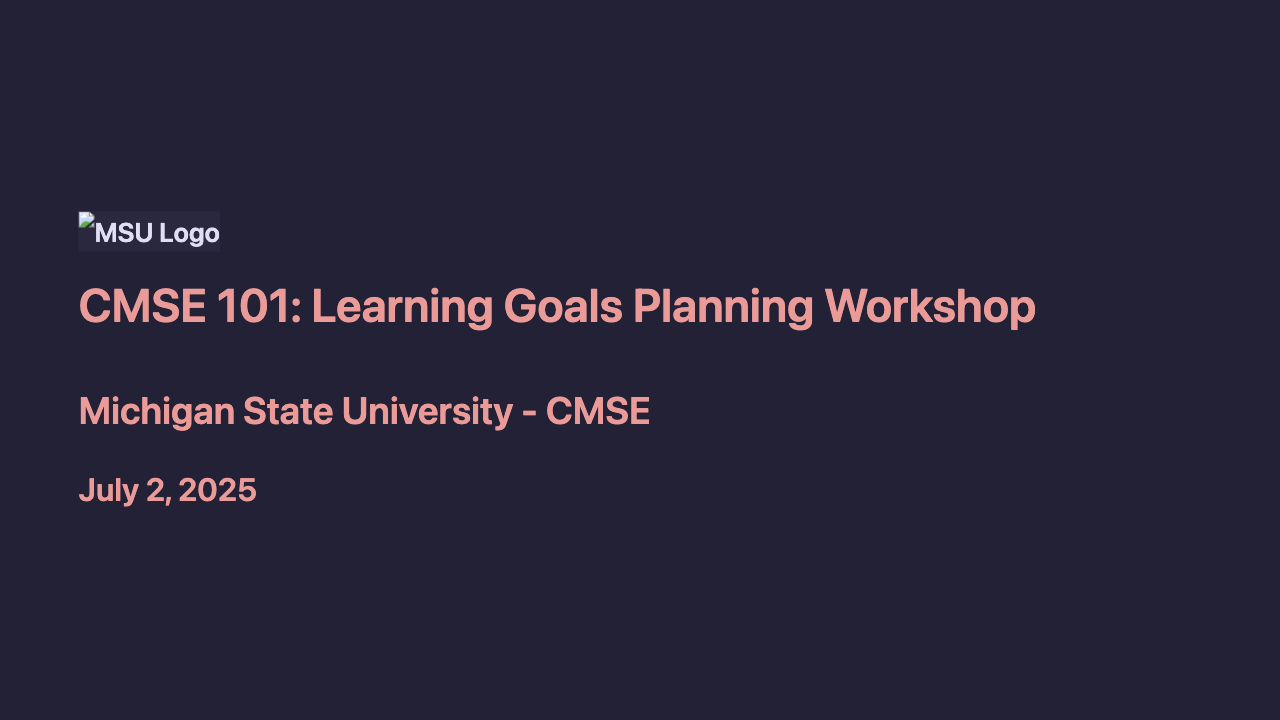
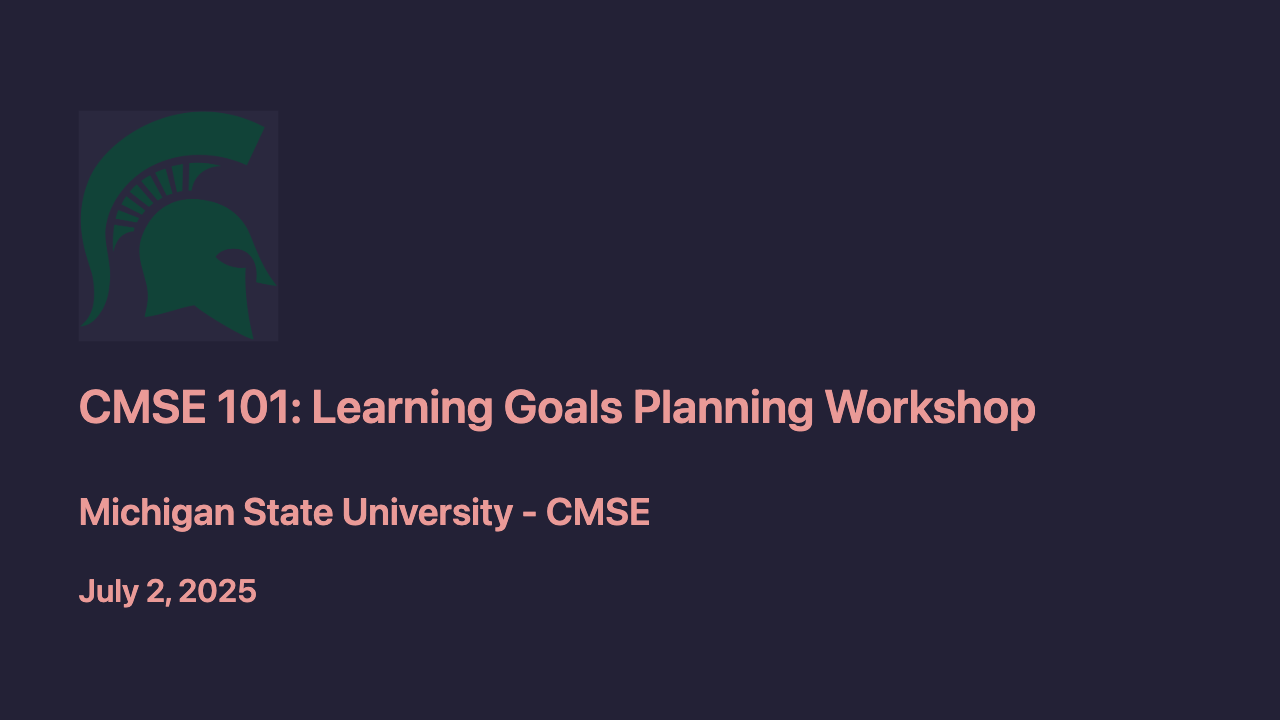
added cmse lg slides

diff --git a/content/cmse-101-learning-goals-workshop/slides-dark.html b/content/cmse-101-learning-goals-workshop/slides-dark.html
@@ -14,13 +14,12 @@ MIT License https://github.com/rainbowflesh/Rose-Pine-For-Marp/blob/master/licen
 
 palette in :root
 */div#\:\$p > svg > foreignObject > :where(section):not([\20 root]){--base: #232136;--surface: #2a273f;--overlay: #393552;--muted: #6e6a86;--subtle: #908caa;--text: #e0def4;--love: #eb6f92;--gold: #f6c177;--rose: #ea9a97;--pine: #3e8fb0;--foam: #9ccfd8;--iris: #c4a7e7;--highlight-low: #2a283e;--highlight-muted: #44415a;--highlight-high: #56526e;font-family:Pier Sans, ui-sans-serif, system-ui, -apple-system, BlinkMacSystemFont, Segoe UI, Roboto, Helvetica Neue, Arial, Noto Sans, sans-serif, "Apple Color Emoji", "Segoe UI Emoji", Segoe UI Symbol, "Noto Color Emoji";font-weight:initial;background-color:var(--base)}div#\:\$p > svg > foreignObject > section :is(h1, marp-h1){color:var(--rose);padding-bottom:2mm;margin-bottom:12mm}div#\:\$p > svg > foreignObject > section :is(h2, marp-h2){color:var(--rose)}div#\:\$p > svg > foreignObject > section :is(h3, marp-h3){color:var(--rose)}div#\:\$p > svg > foreignObject > section :is(h4, marp-h4){color:var(--rose)}div#\:\$p > svg > foreignObject > section :is(h5, marp-h5){color:var(--rose)}div#\:\$p > svg > foreignObject > section :is(h6, marp-h6){color:var(--rose)}div#\:\$p > svg > foreignObject > section a{color:var(--iris)}div#\:\$p > svg > foreignObject > section p{font-size:20pt;font-weight:600;color:var(--text)}div#\:\$p > svg > foreignObject > section code{color:var(--text);background-color:var(--highlight-muted)}div#\:\$p > svg > foreignObject > section text{color:var(--text)}div#\:\$p > svg > foreignObject > section ul{color:var(--subtle)}div#\:\$p > svg > foreignObject > section li{color:var(--subtle)}div#\:\$p > svg > foreignObject > section img{background-color:var(--highlight-low)}div#\:\$p > svg > foreignObject > section strong{color:var(--text);font-weight:inherit;font-weight:800}div#\:\$p > svg > foreignObject > section mjx-container{color:var(--text)}div#\:\$p > svg > foreignObject > section marp-pre{background-color:var(--overlay);border-color:var(--highlight-high)}div#\:\$p > svg > foreignObject > section .hljs-comment{color:var(--muted)}div#\:\$p > svg > foreignObject > section .hljs-attr{color:var(--foam)}div#\:\$p > svg > foreignObject > section .hljs-punctuation{color:var(--subtle)}div#\:\$p > svg > foreignObject > section .hljs-string{color:var(--gold)}div#\:\$p > svg > foreignObject > section .hljs-title{color:var(--foam)}div#\:\$p > svg > foreignObject > section .hljs-keyword{color:var(--pine)}div#\:\$p > svg > foreignObject > section .hljs-variable{color:var(--text)}div#\:\$p > svg > foreignObject > section .hljs-literal{color:var(--rose)}div#\:\$p > svg > foreignObject > section .hljs-type{color:var(--love)}div#\:\$p > svg > foreignObject > section .hljs-number{color:var(--gold)}div#\:\$p > svg > foreignObject > section .hljs-built_in{color:var(--love)}div#\:\$p > svg > foreignObject > section .hljs-params{color:var(--iris)}div#\:\$p > svg > foreignObject > section .hljs-symbol{color:var(--foam)}div#\:\$p > svg > foreignObject > section .hljs-meta{color:var(--subtle)}div#\:\$p > svg > foreignObject > section .twocolumns{display:flex;align-items:flex-start;gap:2em}div#\:\$p > svg > foreignObject > section .twocolumns img{max-width:400px;height:auto}div#\:\$p > svg > foreignObject > section .twocolumns ul{margin:0;padding-left:1.2em}div#\:\$p > svg > foreignObject > section[data-marpit-advanced-background="background"]{columns:initial!important;display:block!important;padding:0!important}div#\:\$p > svg > foreignObject > section[data-marpit-advanced-background="background"]::before, div#\:\$p > svg > foreignObject > section[data-marpit-advanced-background="background"]::after, div#\:\$p > svg > foreignObject > section[data-marpit-advanced-background="content"]::before, div#\:\$p > svg > foreignObject > section[data-marpit-advanced-background="content"]::after{display:none!important}div#\:\$p > svg > foreignObject > section[data-marpit-advanced-background="background"] > div[data-marpit-advanced-background-container]{all:initial;display:flex;flex-direction:row;height:100%;overflow:hidden;width:100%}div#\:\$p > svg > foreignObject > section[data-marpit-advanced-background="background"] > div[data-marpit-advanced-background-container][data-marpit-advanced-background-direction="vertical"]{flex-direction:column}div#\:\$p > svg > foreignObject > section[data-marpit-advanced-background="background"][data-marpit-advanced-background-split] > div[data-marpit-advanced-background-container]{width:var(--marpit-advanced-background-split, 50%)}div#\:\$p > svg > foreignObject > section[data-marpit-advanced-background="background"][data-marpit-advanced-background-split="right"] > div[data-marpit-advanced-background-container]{margin-left:calc(100% - var(--marpit-advanced-background-split, 50%))}div#\:\$p > svg > foreignObject > section[data-marpit-advanced-background="background"] > div[data-marpit-advanced-background-container] > figure{all:initial;background-position:center;background-repeat:no-repeat;background-size:cover;flex:auto;margin:0}div#\:\$p > svg > foreignObject > section[data-marpit-advanced-background="background"] > div[data-marpit-advanced-background-container] > figure > figcaption{position:absolute;border:0;clip:rect(0, 0, 0, 0);height:1px;margin:-1px;overflow:hidden;padding:0;white-space:nowrap;width:1px}div#\:\$p > svg > foreignObject > section[data-marpit-advanced-background="content"], div#\:\$p > svg > foreignObject > section[data-marpit-advanced-background="pseudo"]{background:transparent!important}div#\:\$p > svg > foreignObject > section[data-marpit-advanced-background="pseudo"], div#\:\$p > svg[data-marpit-svg] > foreignObject[data-marpit-advanced-background="pseudo"]{pointer-events:none!important}div#\:\$p > svg > foreignObject > section[data-marpit-advanced-background-split]{width:100%;height:100%}
-</style></head><body><div class="bespoke-marp-osc"><button data-bespoke-marp-osc="prev" tabindex="-1" title="Previous slide">Previous slide</button><span data-bespoke-marp-osc="page"></span><button data-bespoke-marp-osc="next" tabindex="-1" title="Next slide">Next slide</button><button data-bespoke-marp-osc="fullscreen" tabindex="-1" title="Toggle fullscreen (f)">Toggle fullscreen</button><button data-bespoke-marp-osc="presenter" tabindex="-1" title="Open presenter view (p)">Open presenter view</button></div><div id=":$p"><svg data-marpit-svg="" viewBox="0 0 1280 720"><foreignObject width="1280" height="720"><section id="1" data-theme="vqmhr36mx9h9f73o8dxdu18jc18evnkctww7g9umyvn" lang="en-US" style="--theme:vqmhr36mx9h9f73o8dxdu18jc18evnkctww7g9umyvn;">
-<p><img src="https://upload.wikimedia.org/wikipedia/commons/thumb/0/04/Michigan_State_University_Logo.svg/1200px-Michigan_State_University_Logo.svg.png" alt="MSU Logo" /></p>
+</style></head><body><div class="bespoke-marp-osc"><button data-bespoke-marp-osc="prev" tabindex="-1" title="Previous slide">Previous slide</button><span data-bespoke-marp-osc="page"></span><button data-bespoke-marp-osc="next" tabindex="-1" title="Next slide">Next slide</button><button data-bespoke-marp-osc="fullscreen" tabindex="-1" title="Toggle fullscreen (f)">Toggle fullscreen</button><button data-bespoke-marp-osc="presenter" tabindex="-1" title="Open presenter view (p)">Open presenter view</button></div><div id=":$p"><svg data-marpit-svg="" viewBox="0 0 1280 720"><foreignObject width="1280" height="720"><section id="1" data-theme="2opchzetwzlmyj7yw8d2ysjjeofq90p6dske70d6ek2l" lang="en-US" style="--theme:2opchzetwzlmyj7yw8d2ysjjeofq90p6dske70d6ek2l;"><img src="./images/msu.png" alt="MSU Logo" width="200" />
 <h1 id="cmse-101-learning-goals-planning-workshop">CMSE 101: Learning Goals Planning Workshop</h1>
 <h2 id="michigan-state-university---cmse">Michigan State University - CMSE</h2>
 <h3 id="july-2-2025">July 2, 2025</h3>
 </section>
-</foreignObject></svg><svg data-marpit-svg="" viewBox="0 0 1280 720"><foreignObject width="1280" height="720"><section id="2" data-theme="vqmhr36mx9h9f73o8dxdu18jc18evnkctww7g9umyvn" lang="en-US" style="--theme:vqmhr36mx9h9f73o8dxdu18jc18evnkctww7g9umyvn;">
+</foreignObject></svg><svg data-marpit-svg="" viewBox="0 0 1280 720"><foreignObject width="1280" height="720"><section id="2" data-theme="2opchzetwzlmyj7yw8d2ysjjeofq90p6dske70d6ek2l" lang="en-US" style="--theme:2opchzetwzlmyj7yw8d2ysjjeofq90p6dske70d6ek2l;">
 <h1 id="what-is-cmse-101-preliminary"><strong>What is CMSE 101? (Preliminary)</strong></h1>
 <h2 id="%F0%9F%8E%AF-working-course-vision"><img class="emoji" draggable="false" alt="🎯" src="https://cdn.jsdelivr.net/gh/jdecked/twemoji@16.0.1/assets/svg/1f3af.svg" data-marp-twemoji=""/> <strong>Working Course Vision</strong></h2>
 <ul>
@@ -31,7 +30,7 @@ palette in :root
 </ul>
 <p><strong>But what should this actually look like? That's what we're here to figure out!</strong></p>
 </section>
-</foreignObject></svg><svg data-marpit-svg="" viewBox="0 0 1280 720"><foreignObject width="1280" height="720"><section id="3" data-theme="vqmhr36mx9h9f73o8dxdu18jc18evnkctww7g9umyvn" lang="en-US" style="--theme:vqmhr36mx9h9f73o8dxdu18jc18evnkctww7g9umyvn;">
+</foreignObject></svg><svg data-marpit-svg="" viewBox="0 0 1280 720"><foreignObject width="1280" height="720"><section id="3" data-theme="2opchzetwzlmyj7yw8d2ysjjeofq90p6dske70d6ek2l" lang="en-US" style="--theme:2opchzetwzlmyj7yw8d2ysjjeofq90p6dske70d6ek2l;">
 <h1 id="workshop-goals"><strong>Workshop Goals</strong></h1>
 <h2 id="%F0%9F%A7%A0-todays-work"><img class="emoji" draggable="false" alt="🧠" src="https://cdn.jsdelivr.net/gh/jdecked/twemoji@16.0.1/assets/svg/1f9e0.svg" data-marp-twemoji=""/> <strong>Today's Work</strong></h2>
 <ul>
@@ -42,7 +41,7 @@ palette in :root
 <li><strong>Leave with concrete next steps</strong></li>
 </ul>
 </section>
-</foreignObject></svg><svg data-marpit-svg="" viewBox="0 0 1280 720"><foreignObject width="1280" height="720"><section id="4" data-theme="vqmhr36mx9h9f73o8dxdu18jc18evnkctww7g9umyvn" lang="en-US" style="--theme:vqmhr36mx9h9f73o8dxdu18jc18evnkctww7g9umyvn;">
+</foreignObject></svg><svg data-marpit-svg="" viewBox="0 0 1280 720"><foreignObject width="1280" height="720"><section id="4" data-theme="2opchzetwzlmyj7yw8d2ysjjeofq90p6dske70d6ek2l" lang="en-US" style="--theme:2opchzetwzlmyj7yw8d2ysjjeofq90p6dske70d6ek2l;">
 <h1 id="starting-point-preliminary-ideas"><strong>Starting Point: Preliminary Ideas</strong></h1>
 <h2 id="%F0%9F%A4%94-some-initial-thoughts-to-be-tested"><img class="emoji" draggable="false" alt="🤔" src="https://cdn.jsdelivr.net/gh/jdecked/twemoji@16.0.1/assets/svg/1f914.svg" data-marp-twemoji=""/> <strong>Some Initial Thoughts (To Be Tested!)</strong></h2>
 <ul>
@@ -54,7 +53,7 @@ palette in :root
 </ul>
 <p><strong>But are these the right priorities? What's missing?</strong></p>
 </section>
-</foreignObject></svg><svg data-marpit-svg="" viewBox="0 0 1280 720"><foreignObject width="1280" height="720"><section id="5" data-theme="vqmhr36mx9h9f73o8dxdu18jc18evnkctww7g9umyvn" lang="en-US" style="--theme:vqmhr36mx9h9f73o8dxdu18jc18evnkctww7g9umyvn;">
+</foreignObject></svg><svg data-marpit-svg="" viewBox="0 0 1280 720"><foreignObject width="1280" height="720"><section id="5" data-theme="2opchzetwzlmyj7yw8d2ysjjeofq90p6dske70d6ek2l" lang="en-US" style="--theme:2opchzetwzlmyj7yw8d2ysjjeofq90p6dske70d6ek2l;">
 <h1 id="learning-goals-development-process"><strong>Learning Goals Development Process</strong></h1>
 <h2 id="%F0%9F%94%84-our-workshop-flow"><img class="emoji" draggable="false" alt="🔄" src="https://cdn.jsdelivr.net/gh/jdecked/twemoji@16.0.1/assets/svg/1f504.svg" data-marp-twemoji=""/> <strong>Our Workshop Flow</strong></h2>
 <ol>
@@ -64,7 +63,7 @@ palette in :root
 <li><strong>Whole group discussion</strong> (15 min) - Refine and organize</li>
 </ol>
 </section>
-</foreignObject></svg><svg data-marpit-svg="" viewBox="0 0 1280 720"><foreignObject width="1280" height="720"><section id="6" data-theme="vqmhr36mx9h9f73o8dxdu18jc18evnkctww7g9umyvn" lang="en-US" style="--theme:vqmhr36mx9h9f73o8dxdu18jc18evnkctww7g9umyvn;">
+</foreignObject></svg><svg data-marpit-svg="" viewBox="0 0 1280 720"><foreignObject width="1280" height="720"><section id="6" data-theme="2opchzetwzlmyj7yw8d2ysjjeofq90p6dske70d6ek2l" lang="en-US" style="--theme:2opchzetwzlmyj7yw8d2ysjjeofq90p6dske70d6ek2l;">
 <h1 id="activity-1-individual-reflection"><strong>Activity 1: Individual Reflection</strong></h1>
 <h2 id="%F0%9F%A4%94-think-about-this-scenario"><img class="emoji" draggable="false" alt="🤔" src="https://cdn.jsdelivr.net/gh/jdecked/twemoji@16.0.1/assets/svg/1f914.svg" data-marp-twemoji=""/> <strong>Think About This Scenario</strong></h2>
 <p><em>A business student takes CMSE 101. Three years later, they're implementing AI chatbots at work.</em></p>
@@ -77,7 +76,7 @@ palette in :root
 </ul>
 <p><strong>Write 3-5 learning goals</strong> (5 minutes, individual work)</p>
 </section>
-</foreignObject></svg><svg data-marpit-svg="" viewBox="0 0 1280 720"><foreignObject width="1280" height="720"><section id="7" data-theme="vqmhr36mx9h9f73o8dxdu18jc18evnkctww7g9umyvn" lang="en-US" style="--theme:vqmhr36mx9h9f73o8dxdu18jc18evnkctww7g9umyvn;">
+</foreignObject></svg><svg data-marpit-svg="" viewBox="0 0 1280 720"><foreignObject width="1280" height="720"><section id="7" data-theme="2opchzetwzlmyj7yw8d2ysjjeofq90p6dske70d6ek2l" lang="en-US" style="--theme:2opchzetwzlmyj7yw8d2ysjjeofq90p6dske70d6ek2l;">
 <h1 id="thought-starters"><strong>Thought Starters</strong></h1>
 <h2 id="%F0%9F%92%AD-some-questions-to-consider"><img class="emoji" draggable="false" alt="💭" src="https://cdn.jsdelivr.net/gh/jdecked/twemoji@16.0.1/assets/svg/1f4ad.svg" data-marp-twemoji=""/> <strong>Some Questions to Consider</strong></h2>
 <ul>
@@ -89,7 +88,7 @@ palette in :root
 </ul>
 <p><strong>Use these to spark ideas, but don't feel constrained by them!</strong></p>
 </section>
-</foreignObject></svg><svg data-marpit-svg="" viewBox="0 0 1280 720"><foreignObject width="1280" height="720"><section id="8" data-theme="vqmhr36mx9h9f73o8dxdu18jc18evnkctww7g9umyvn" lang="en-US" style="--theme:vqmhr36mx9h9f73o8dxdu18jc18evnkctww7g9umyvn;">
+</foreignObject></svg><svg data-marpit-svg="" viewBox="0 0 1280 720"><foreignObject width="1280" height="720"><section id="8" data-theme="2opchzetwzlmyj7yw8d2ysjjeofq90p6dske70d6ek2l" lang="en-US" style="--theme:2opchzetwzlmyj7yw8d2ysjjeofq90p6dske70d6ek2l;">
 <h1 id="activity-2-small-group-brainstorming"><strong>Activity 2: Small Group Brainstorming</strong></h1>
 <h2 id="%F0%9F%A7%A0-expand-the-vision-15-minutes"><img class="emoji" draggable="false" alt="🧠" src="https://cdn.jsdelivr.net/gh/jdecked/twemoji@16.0.1/assets/svg/1f9e0.svg" data-marp-twemoji=""/> <strong>Expand the Vision</strong> (15 minutes)</h2>
 <p><strong>In groups of 3-4:</strong></p>
@@ -106,7 +105,7 @@ palette in :root
 <li><strong>Write each potential learning goal</strong> on a sticky note</li>
 </ol>
 </section>
-</foreignObject></svg><svg data-marpit-svg="" viewBox="0 0 1280 720"><foreignObject width="1280" height="720"><section id="9" data-theme="vqmhr36mx9h9f73o8dxdu18jc18evnkctww7g9umyvn" lang="en-US" style="--theme:vqmhr36mx9h9f73o8dxdu18jc18evnkctww7g9umyvn;">
+</foreignObject></svg><svg data-marpit-svg="" viewBox="0 0 1280 720"><foreignObject width="1280" height="720"><section id="9" data-theme="2opchzetwzlmyj7yw8d2ysjjeofq90p6dske70d6ek2l" lang="en-US" style="--theme:2opchzetwzlmyj7yw8d2ysjjeofq90p6dske70d6ek2l;">
 <h1 id="activity-3-gallery-walk--prioritization"><strong>Activity 3: Gallery Walk &amp; Prioritization</strong></h1>
 <h2 id="%F0%9F%93%9D-organize-our-thinking-10-minutes"><img class="emoji" draggable="false" alt="📝" src="https://cdn.jsdelivr.net/gh/jdecked/twemoji@16.0.1/assets/svg/1f4dd.svg" data-marp-twemoji=""/> <strong>Organize Our Thinking</strong> (10 minutes)</h2>
 <ol>
@@ -127,7 +126,7 @@ palette in :root
 </li>
 </ol>
 </section>
-</foreignObject></svg><svg data-marpit-svg="" viewBox="0 0 1280 720"><foreignObject width="1280" height="720"><section id="10" data-theme="vqmhr36mx9h9f73o8dxdu18jc18evnkctww7g9umyvn" lang="en-US" style="--theme:vqmhr36mx9h9f73o8dxdu18jc18evnkctww7g9umyvn;">
+</foreignObject></svg><svg data-marpit-svg="" viewBox="0 0 1280 720"><foreignObject width="1280" height="720"><section id="10" data-theme="2opchzetwzlmyj7yw8d2ysjjeofq90p6dske70d6ek2l" lang="en-US" style="--theme:2opchzetwzlmyj7yw8d2ysjjeofq90p6dske70d6ek2l;">
 <h1 id="activity-4-refining--reality-check"><strong>Activity 4: Refining &amp; Reality Check</strong></h1>
 <h2 id="%F0%9F%8E%AF-making-it-work-15-minutes"><img class="emoji" draggable="false" alt="🎯" src="https://cdn.jsdelivr.net/gh/jdecked/twemoji@16.0.1/assets/svg/1f3af.svg" data-marp-twemoji=""/> <strong>Making It Work</strong> (15 minutes)</h2>
 <p><strong>Looking at our top-voted goals:</strong></p>
@@ -144,7 +143,7 @@ palette in :root
 <li>Suggest concrete activities that could support each goal</li>
 </ul>
 </section>
-</foreignObject></svg><svg data-marpit-svg="" viewBox="0 0 1280 720"><foreignObject width="1280" height="720"><section id="11" data-theme="vqmhr36mx9h9f73o8dxdu18jc18evnkctww7g9umyvn" lang="en-US" style="--theme:vqmhr36mx9h9f73o8dxdu18jc18evnkctww7g9umyvn;">
+</foreignObject></svg><svg data-marpit-svg="" viewBox="0 0 1280 720"><foreignObject width="1280" height="720"><section id="11" data-theme="2opchzetwzlmyj7yw8d2ysjjeofq90p6dske70d6ek2l" lang="en-US" style="--theme:2opchzetwzlmyj7yw8d2ysjjeofq90p6dske70d6ek2l;">
 <h1 id="course-structure-planning"><strong>Course Structure Planning</strong></h1>
 <h2 id="%F0%9F%93%85-how-should-we-organize-the-semester"><img class="emoji" draggable="false" alt="📅" src="https://cdn.jsdelivr.net/gh/jdecked/twemoji@16.0.1/assets/svg/1f4c5.svg" data-marp-twemoji=""/> <strong>How Should We Organize the Semester?</strong></h2>
 <p><strong>With our learning goals in mind:</strong></p>
@@ -155,7 +154,7 @@ palette in :root
 <li><strong>How do we reinforce</strong> key concepts throughout?</li>
 </ul>
 </section>
-</foreignObject></svg><svg data-marpit-svg="" viewBox="0 0 1280 720"><foreignObject width="1280" height="720"><section id="12" data-theme="vqmhr36mx9h9f73o8dxdu18jc18evnkctww7g9umyvn" lang="en-US" style="--theme:vqmhr36mx9h9f73o8dxdu18jc18evnkctww7g9umyvn;">
+</foreignObject></svg><svg data-marpit-svg="" viewBox="0 0 1280 720"><foreignObject width="1280" height="720"><section id="12" data-theme="2opchzetwzlmyj7yw8d2ysjjeofq90p6dske70d6ek2l" lang="en-US" style="--theme:2opchzetwzlmyj7yw8d2ysjjeofq90p6dske70d6ek2l;">
 <h1 id="module-design-brainstorm"><strong>Module Design Brainstorm</strong></h1>
 <h2 id="%F0%9F%A7%A9-potential-module-structure"><img class="emoji" draggable="false" alt="🧩" src="https://cdn.jsdelivr.net/gh/jdecked/twemoji@16.0.1/assets/svg/1f9e9.svg" data-marp-twemoji=""/> <strong>Potential Module Structure</strong></h2>
 <p><strong>Each 2-3 week module could include:</strong></p>
@@ -168,7 +167,7 @@ palette in :root
 </ul>
 <p><strong>What modules would serve our learning goals?</strong></p>
 </section>
-</foreignObject></svg><svg data-marpit-svg="" viewBox="0 0 1280 720"><foreignObject width="1280" height="720"><section id="13" data-theme="vqmhr36mx9h9f73o8dxdu18jc18evnkctww7g9umyvn" lang="en-US" style="--theme:vqmhr36mx9h9f73o8dxdu18jc18evnkctww7g9umyvn;">
+</foreignObject></svg><svg data-marpit-svg="" viewBox="0 0 1280 720"><foreignObject width="1280" height="720"><section id="13" data-theme="2opchzetwzlmyj7yw8d2ysjjeofq90p6dske70d6ek2l" lang="en-US" style="--theme:2opchzetwzlmyj7yw8d2ysjjeofq90p6dske70d6ek2l;">
 <h1 id="activity-5-module-brainstorming"><strong>Activity 5: Module Brainstorming</strong></h1>
 <h2 id="%F0%9F%93%8B-design-the-semester-20-minutes"><img class="emoji" draggable="false" alt="📋" src="https://cdn.jsdelivr.net/gh/jdecked/twemoji@16.0.1/assets/svg/1f4cb.svg" data-marp-twemoji=""/> <strong>Design the Semester</strong> (20 minutes)</h2>
 <p><strong>In small groups, each take one potential module:</strong></p>
@@ -181,7 +180,7 @@ palette in :root
 </ol>
 <p><strong>Potential modules: Social Media, Search, Recommendations, Generative AI, Healthcare AI, etc.</strong></p>
 </section>
-</foreignObject></svg><svg data-marpit-svg="" viewBox="0 0 1280 720"><foreignObject width="1280" height="720"><section id="14" data-theme="vqmhr36mx9h9f73o8dxdu18jc18evnkctww7g9umyvn" lang="en-US" style="--theme:vqmhr36mx9h9f73o8dxdu18jc18evnkctww7g9umyvn;">
+</foreignObject></svg><svg data-marpit-svg="" viewBox="0 0 1280 720"><foreignObject width="1280" height="720"><section id="14" data-theme="2opchzetwzlmyj7yw8d2ysjjeofq90p6dske70d6ek2l" lang="en-US" style="--theme:2opchzetwzlmyj7yw8d2ysjjeofq90p6dske70d6ek2l;">
 <h1 id="module-sharing--sequencing"><strong>Module Sharing &amp; Sequencing</strong></h1>
 <h2 id="%F0%9F%94%97-putting-it-together"><img class="emoji" draggable="false" alt="🔗" src="https://cdn.jsdelivr.net/gh/jdecked/twemoji@16.0.1/assets/svg/1f517.svg" data-marp-twemoji=""/> <strong>Putting It Together</strong></h2>
 <p><strong>Each group presents their module (3 min each):</strong></p>
@@ -198,7 +197,7 @@ palette in :root
 <li><strong>Consider the semester arc</strong></li>
 </ul>
 </section>
-</foreignObject></svg><svg data-marpit-svg="" viewBox="0 0 1280 720"><foreignObject width="1280" height="720"><section id="15" data-theme="vqmhr36mx9h9f73o8dxdu18jc18evnkctww7g9umyvn" lang="en-US" style="--theme:vqmhr36mx9h9f73o8dxdu18jc18evnkctww7g9umyvn;">
+</foreignObject></svg><svg data-marpit-svg="" viewBox="0 0 1280 720"><foreignObject width="1280" height="720"><section id="15" data-theme="2opchzetwzlmyj7yw8d2ysjjeofq90p6dske70d6ek2l" lang="en-US" style="--theme:2opchzetwzlmyj7yw8d2ysjjeofq90p6dske70d6ek2l;">
 <h1 id="next-steps-course-development"><strong>Next Steps: Course Development</strong></h1>
 <h2 id="%F0%9F%9A%80-what-we-accomplished-today"><img class="emoji" draggable="false" alt="🚀" src="https://cdn.jsdelivr.net/gh/jdecked/twemoji@16.0.1/assets/svg/1f680.svg" data-marp-twemoji=""/> <strong>What We Accomplished Today</strong></h2>
 <ul>
@@ -214,7 +213,7 @@ palette in :root
 <li><strong>Plan follow-up meetings</strong> for instruction and assessment</li>
 </ul>
 </section>
-</foreignObject></svg><svg data-marpit-svg="" viewBox="0 0 1280 720"><foreignObject width="1280" height="720"><section id="16" data-theme="vqmhr36mx9h9f73o8dxdu18jc18evnkctww7g9umyvn" lang="en-US" style="--theme:vqmhr36mx9h9f73o8dxdu18jc18evnkctww7g9umyvn;">
+</foreignObject></svg><svg data-marpit-svg="" viewBox="0 0 1280 720"><foreignObject width="1280" height="720"><section id="16" data-theme="2opchzetwzlmyj7yw8d2ysjjeofq90p6dske70d6ek2l" lang="en-US" style="--theme:2opchzetwzlmyj7yw8d2ysjjeofq90p6dske70d6ek2l;">
 <h1 id="take-action-before-next-meeting"><strong>Take Action: Before Next Meeting</strong></h1>
 <h2 id="%F0%9F%93%9D-individual-tasks"><img class="emoji" draggable="false" alt="📝" src="https://cdn.jsdelivr.net/gh/jdecked/twemoji@16.0.1/assets/svg/1f4dd.svg" data-marp-twemoji=""/> <strong>Individual Tasks</strong></h2>
 <ol>

diff --git a/content/cmse-101-learning-goals-workshop/slides-light.html b/content/cmse-101-learning-goals-workshop/slides-light.html
@@ -14,13 +14,12 @@ MIT License https://github.com/rainbowflesh/Rose-Pine-For-Marp/blob/master/licen
 
 palette in :root
 */div#\:\$p > svg > foreignObject > :where(section):not([\20 root]){--base: #faf4ed;--surface: #fffaf3;--overlay: #f2e9e1;--muted: #9893a5;--subtle: #797593;--text: #575279;--love: #b4637a;--gold: #ea9d34;--rose: #d7827e;--pine: #286983;--foam: #56949f;--iris: #907aa9;--highlight-low: #f4ede8;--highlight-muted: #dfdad9;--highlight-high: #cecacd;font-family:Pier Sans, ui-sans-serif, system-ui, -apple-system, BlinkMacSystemFont, Segoe UI, Roboto, Helvetica Neue, Arial, Noto Sans, sans-serif, "Apple Color Emoji", "Segoe UI Emoji", Segoe UI Symbol, "Noto Color Emoji";font-weight:initial;background-color:var(--base)}div#\:\$p > svg > foreignObject > section :is(h1, marp-h1){color:var(--rose);padding-bottom:2mm;margin-bottom:12mm}div#\:\$p > svg > foreignObject > section :is(h2, marp-h2){color:var(--rose)}div#\:\$p > svg > foreignObject > section :is(h3, marp-h3){color:var(--rose)}div#\:\$p > svg > foreignObject > section :is(h4, marp-h4){color:var(--rose)}div#\:\$p > svg > foreignObject > section :is(h5, marp-h5){color:var(--rose)}div#\:\$p > svg > foreignObject > section :is(h6, marp-h6){color:var(--rose)}div#\:\$p > svg > foreignObject > section a{color:var(--iris)}div#\:\$p > svg > foreignObject > section p{font-size:20pt;font-weight:600;color:var(--text)}div#\:\$p > svg > foreignObject > section code{color:var(--text);background-color:var(--highlight-muted)}div#\:\$p > svg > foreignObject > section text{color:var(--text)}div#\:\$p > svg > foreignObject > section ul{color:var(--subtle)}div#\:\$p > svg > foreignObject > section li{color:var(--subtle)}div#\:\$p > svg > foreignObject > section img{background-color:var(--highlight-low)}div#\:\$p > svg > foreignObject > section strong{color:var(--text);font-weight:inherit;font-weight:800}div#\:\$p > svg > foreignObject > section mjx-container{color:var(--text)}div#\:\$p > svg > foreignObject > section marp-pre{background-color:var(--overlay);border-color:var(--highlight-high)}div#\:\$p > svg > foreignObject > section .hljs-comment{color:var(--muted)}div#\:\$p > svg > foreignObject > section .hljs-attr{color:var(--foam)}div#\:\$p > svg > foreignObject > section .hljs-punctuation{color:var(--subtle)}div#\:\$p > svg > foreignObject > section .hljs-string{color:var(--gold)}div#\:\$p > svg > foreignObject > section .hljs-title{color:var(--foam)}div#\:\$p > svg > foreignObject > section .hljs-keyword{color:var(--pine)}div#\:\$p > svg > foreignObject > section .hljs-variable{color:var(--text)}div#\:\$p > svg > foreignObject > section .hljs-literal{color:var(--rose)}div#\:\$p > svg > foreignObject > section .hljs-type{color:var(--love)}div#\:\$p > svg > foreignObject > section .hljs-number{color:var(--gold)}div#\:\$p > svg > foreignObject > section .hljs-built_in{color:var(--love)}div#\:\$p > svg > foreignObject > section .hljs-params{color:var(--iris)}div#\:\$p > svg > foreignObject > section .hljs-symbol{color:var(--foam)}div#\:\$p > svg > foreignObject > section .hljs-meta{color:var(--subtle)}div#\:\$p > svg > foreignObject > section .twocolumns{display:flex;align-items:flex-start;gap:2em}div#\:\$p > svg > foreignObject > section .twocolumns img{max-width:400px;height:auto}div#\:\$p > svg > foreignObject > section .twocolumns ul{margin:0;padding-left:1.2em}div#\:\$p > svg > foreignObject > section[data-marpit-advanced-background="background"]{columns:initial!important;display:block!important;padding:0!important}div#\:\$p > svg > foreignObject > section[data-marpit-advanced-background="background"]::before, div#\:\$p > svg > foreignObject > section[data-marpit-advanced-background="background"]::after, div#\:\$p > svg > foreignObject > section[data-marpit-advanced-background="content"]::before, div#\:\$p > svg > foreignObject > section[data-marpit-advanced-background="content"]::after{display:none!important}div#\:\$p > svg > foreignObject > section[data-marpit-advanced-background="background"] > div[data-marpit-advanced-background-container]{all:initial;display:flex;flex-direction:row;height:100%;overflow:hidden;width:100%}div#\:\$p > svg > foreignObject > section[data-marpit-advanced-background="background"] > div[data-marpit-advanced-background-container][data-marpit-advanced-background-direction="vertical"]{flex-direction:column}div#\:\$p > svg > foreignObject > section[data-marpit-advanced-background="background"][data-marpit-advanced-background-split] > div[data-marpit-advanced-background-container]{width:var(--marpit-advanced-background-split, 50%)}div#\:\$p > svg > foreignObject > section[data-marpit-advanced-background="background"][data-marpit-advanced-background-split="right"] > div[data-marpit-advanced-background-container]{margin-left:calc(100% - var(--marpit-advanced-background-split, 50%))}div#\:\$p > svg > foreignObject > section[data-marpit-advanced-background="background"] > div[data-marpit-advanced-background-container] > figure{all:initial;background-position:center;background-repeat:no-repeat;background-size:cover;flex:auto;margin:0}div#\:\$p > svg > foreignObject > section[data-marpit-advanced-background="background"] > div[data-marpit-advanced-background-container] > figure > figcaption{position:absolute;border:0;clip:rect(0, 0, 0, 0);height:1px;margin:-1px;overflow:hidden;padding:0;white-space:nowrap;width:1px}div#\:\$p > svg > foreignObject > section[data-marpit-advanced-background="content"], div#\:\$p > svg > foreignObject > section[data-marpit-advanced-background="pseudo"]{background:transparent!important}div#\:\$p > svg > foreignObject > section[data-marpit-advanced-background="pseudo"], div#\:\$p > svg[data-marpit-svg] > foreignObject[data-marpit-advanced-background="pseudo"]{pointer-events:none!important}div#\:\$p > svg > foreignObject > section[data-marpit-advanced-background-split]{width:100%;height:100%}
-</style></head><body><div class="bespoke-marp-osc"><button data-bespoke-marp-osc="prev" tabindex="-1" title="Previous slide">Previous slide</button><span data-bespoke-marp-osc="page"></span><button data-bespoke-marp-osc="next" tabindex="-1" title="Next slide">Next slide</button><button data-bespoke-marp-osc="fullscreen" tabindex="-1" title="Toggle fullscreen (f)">Toggle fullscreen</button><button data-bespoke-marp-osc="presenter" tabindex="-1" title="Open presenter view (p)">Open presenter view</button></div><div id=":$p"><svg data-marpit-svg="" viewBox="0 0 1280 720"><foreignObject width="1280" height="720"><section id="1" data-theme="al5x4250iwsp9pj34mr4gfrn6tjkwaqaavwdhuoc7kr" lang="en-US" style="--theme:al5x4250iwsp9pj34mr4gfrn6tjkwaqaavwdhuoc7kr;">
-<p><img src="https://upload.wikimedia.org/wikipedia/commons/thumb/0/04/Michigan_State_University_Logo.svg/1200px-Michigan_State_University_Logo.svg.png" alt="MSU Logo" /></p>
+</style></head><body><div class="bespoke-marp-osc"><button data-bespoke-marp-osc="prev" tabindex="-1" title="Previous slide">Previous slide</button><span data-bespoke-marp-osc="page"></span><button data-bespoke-marp-osc="next" tabindex="-1" title="Next slide">Next slide</button><button data-bespoke-marp-osc="fullscreen" tabindex="-1" title="Toggle fullscreen (f)">Toggle fullscreen</button><button data-bespoke-marp-osc="presenter" tabindex="-1" title="Open presenter view (p)">Open presenter view</button></div><div id=":$p"><svg data-marpit-svg="" viewBox="0 0 1280 720"><foreignObject width="1280" height="720"><section id="1" data-theme="35j7dcd4n72p2uje7g9wwaksjlox15dbfnakp6wbdmd" lang="en-US" style="--theme:35j7dcd4n72p2uje7g9wwaksjlox15dbfnakp6wbdmd;"><img src="./images/msu.png" alt="MSU Logo" width="200" />
 <h1 id="cmse-101-learning-goals-planning-workshop">CMSE 101: Learning Goals Planning Workshop</h1>
 <h2 id="michigan-state-university---cmse">Michigan State University - CMSE</h2>
 <h3 id="july-2-2025">July 2, 2025</h3>
 </section>
-</foreignObject></svg><svg data-marpit-svg="" viewBox="0 0 1280 720"><foreignObject width="1280" height="720"><section id="2" data-theme="al5x4250iwsp9pj34mr4gfrn6tjkwaqaavwdhuoc7kr" lang="en-US" style="--theme:al5x4250iwsp9pj34mr4gfrn6tjkwaqaavwdhuoc7kr;">
+</foreignObject></svg><svg data-marpit-svg="" viewBox="0 0 1280 720"><foreignObject width="1280" height="720"><section id="2" data-theme="35j7dcd4n72p2uje7g9wwaksjlox15dbfnakp6wbdmd" lang="en-US" style="--theme:35j7dcd4n72p2uje7g9wwaksjlox15dbfnakp6wbdmd;">
 <h1 id="what-is-cmse-101-preliminary"><strong>What is CMSE 101? (Preliminary)</strong></h1>
 <h2 id="%F0%9F%8E%AF-working-course-vision"><img class="emoji" draggable="false" alt="🎯" src="https://cdn.jsdelivr.net/gh/jdecked/twemoji@16.0.1/assets/svg/1f3af.svg" data-marp-twemoji=""/> <strong>Working Course Vision</strong></h2>
 <ul>
@@ -31,7 +30,7 @@ palette in :root
 </ul>
 <p><strong>But what should this actually look like? That's what we're here to figure out!</strong></p>
 </section>
-</foreignObject></svg><svg data-marpit-svg="" viewBox="0 0 1280 720"><foreignObject width="1280" height="720"><section id="3" data-theme="al5x4250iwsp9pj34mr4gfrn6tjkwaqaavwdhuoc7kr" lang="en-US" style="--theme:al5x4250iwsp9pj34mr4gfrn6tjkwaqaavwdhuoc7kr;">
+</foreignObject></svg><svg data-marpit-svg="" viewBox="0 0 1280 720"><foreignObject width="1280" height="720"><section id="3" data-theme="35j7dcd4n72p2uje7g9wwaksjlox15dbfnakp6wbdmd" lang="en-US" style="--theme:35j7dcd4n72p2uje7g9wwaksjlox15dbfnakp6wbdmd;">
 <h1 id="workshop-goals"><strong>Workshop Goals</strong></h1>
 <h2 id="%F0%9F%A7%A0-todays-work"><img class="emoji" draggable="false" alt="🧠" src="https://cdn.jsdelivr.net/gh/jdecked/twemoji@16.0.1/assets/svg/1f9e0.svg" data-marp-twemoji=""/> <strong>Today's Work</strong></h2>
 <ul>
@@ -42,7 +41,7 @@ palette in :root
 <li><strong>Leave with concrete next steps</strong></li>
 </ul>
 </section>
-</foreignObject></svg><svg data-marpit-svg="" viewBox="0 0 1280 720"><foreignObject width="1280" height="720"><section id="4" data-theme="al5x4250iwsp9pj34mr4gfrn6tjkwaqaavwdhuoc7kr" lang="en-US" style="--theme:al5x4250iwsp9pj34mr4gfrn6tjkwaqaavwdhuoc7kr;">
+</foreignObject></svg><svg data-marpit-svg="" viewBox="0 0 1280 720"><foreignObject width="1280" height="720"><section id="4" data-theme="35j7dcd4n72p2uje7g9wwaksjlox15dbfnakp6wbdmd" lang="en-US" style="--theme:35j7dcd4n72p2uje7g9wwaksjlox15dbfnakp6wbdmd;">
 <h1 id="starting-point-preliminary-ideas"><strong>Starting Point: Preliminary Ideas</strong></h1>
 <h2 id="%F0%9F%A4%94-some-initial-thoughts-to-be-tested"><img class="emoji" draggable="false" alt="🤔" src="https://cdn.jsdelivr.net/gh/jdecked/twemoji@16.0.1/assets/svg/1f914.svg" data-marp-twemoji=""/> <strong>Some Initial Thoughts (To Be Tested!)</strong></h2>
 <ul>
@@ -54,7 +53,7 @@ palette in :root
 </ul>
 <p><strong>But are these the right priorities? What's missing?</strong></p>
 </section>
-</foreignObject></svg><svg data-marpit-svg="" viewBox="0 0 1280 720"><foreignObject width="1280" height="720"><section id="5" data-theme="al5x4250iwsp9pj34mr4gfrn6tjkwaqaavwdhuoc7kr" lang="en-US" style="--theme:al5x4250iwsp9pj34mr4gfrn6tjkwaqaavwdhuoc7kr;">
+</foreignObject></svg><svg data-marpit-svg="" viewBox="0 0 1280 720"><foreignObject width="1280" height="720"><section id="5" data-theme="35j7dcd4n72p2uje7g9wwaksjlox15dbfnakp6wbdmd" lang="en-US" style="--theme:35j7dcd4n72p2uje7g9wwaksjlox15dbfnakp6wbdmd;">
 <h1 id="learning-goals-development-process"><strong>Learning Goals Development Process</strong></h1>
 <h2 id="%F0%9F%94%84-our-workshop-flow"><img class="emoji" draggable="false" alt="🔄" src="https://cdn.jsdelivr.net/gh/jdecked/twemoji@16.0.1/assets/svg/1f504.svg" data-marp-twemoji=""/> <strong>Our Workshop Flow</strong></h2>
 <ol>
@@ -64,7 +63,7 @@ palette in :root
 <li><strong>Whole group discussion</strong> (15 min) - Refine and organize</li>
 </ol>
 </section>
-</foreignObject></svg><svg data-marpit-svg="" viewBox="0 0 1280 720"><foreignObject width="1280" height="720"><section id="6" data-theme="al5x4250iwsp9pj34mr4gfrn6tjkwaqaavwdhuoc7kr" lang="en-US" style="--theme:al5x4250iwsp9pj34mr4gfrn6tjkwaqaavwdhuoc7kr;">
+</foreignObject></svg><svg data-marpit-svg="" viewBox="0 0 1280 720"><foreignObject width="1280" height="720"><section id="6" data-theme="35j7dcd4n72p2uje7g9wwaksjlox15dbfnakp6wbdmd" lang="en-US" style="--theme:35j7dcd4n72p2uje7g9wwaksjlox15dbfnakp6wbdmd;">
 <h1 id="activity-1-individual-reflection"><strong>Activity 1: Individual Reflection</strong></h1>
 <h2 id="%F0%9F%A4%94-think-about-this-scenario"><img class="emoji" draggable="false" alt="🤔" src="https://cdn.jsdelivr.net/gh/jdecked/twemoji@16.0.1/assets/svg/1f914.svg" data-marp-twemoji=""/> <strong>Think About This Scenario</strong></h2>
 <p><em>A business student takes CMSE 101. Three years later, they're implementing AI chatbots at work.</em></p>
@@ -77,7 +76,7 @@ palette in :root
 </ul>
 <p><strong>Write 3-5 learning goals</strong> (5 minutes, individual work)</p>
 </section>
-</foreignObject></svg><svg data-marpit-svg="" viewBox="0 0 1280 720"><foreignObject width="1280" height="720"><section id="7" data-theme="al5x4250iwsp9pj34mr4gfrn6tjkwaqaavwdhuoc7kr" lang="en-US" style="--theme:al5x4250iwsp9pj34mr4gfrn6tjkwaqaavwdhuoc7kr;">
+</foreignObject></svg><svg data-marpit-svg="" viewBox="0 0 1280 720"><foreignObject width="1280" height="720"><section id="7" data-theme="35j7dcd4n72p2uje7g9wwaksjlox15dbfnakp6wbdmd" lang="en-US" style="--theme:35j7dcd4n72p2uje7g9wwaksjlox15dbfnakp6wbdmd;">
 <h1 id="thought-starters"><strong>Thought Starters</strong></h1>
 <h2 id="%F0%9F%92%AD-some-questions-to-consider"><img class="emoji" draggable="false" alt="💭" src="https://cdn.jsdelivr.net/gh/jdecked/twemoji@16.0.1/assets/svg/1f4ad.svg" data-marp-twemoji=""/> <strong>Some Questions to Consider</strong></h2>
 <ul>
@@ -89,7 +88,7 @@ palette in :root
 </ul>
 <p><strong>Use these to spark ideas, but don't feel constrained by them!</strong></p>
 </section>
-</foreignObject></svg><svg data-marpit-svg="" viewBox="0 0 1280 720"><foreignObject width="1280" height="720"><section id="8" data-theme="al5x4250iwsp9pj34mr4gfrn6tjkwaqaavwdhuoc7kr" lang="en-US" style="--theme:al5x4250iwsp9pj34mr4gfrn6tjkwaqaavwdhuoc7kr;">
+</foreignObject></svg><svg data-marpit-svg="" viewBox="0 0 1280 720"><foreignObject width="1280" height="720"><section id="8" data-theme="35j7dcd4n72p2uje7g9wwaksjlox15dbfnakp6wbdmd" lang="en-US" style="--theme:35j7dcd4n72p2uje7g9wwaksjlox15dbfnakp6wbdmd;">
 <h1 id="activity-2-small-group-brainstorming"><strong>Activity 2: Small Group Brainstorming</strong></h1>
 <h2 id="%F0%9F%A7%A0-expand-the-vision-15-minutes"><img class="emoji" draggable="false" alt="🧠" src="https://cdn.jsdelivr.net/gh/jdecked/twemoji@16.0.1/assets/svg/1f9e0.svg" data-marp-twemoji=""/> <strong>Expand the Vision</strong> (15 minutes)</h2>
 <p><strong>In groups of 3-4:</strong></p>
@@ -106,7 +105,7 @@ palette in :root
 <li><strong>Write each potential learning goal</strong> on a sticky note</li>
 </ol>
 </section>
-</foreignObject></svg><svg data-marpit-svg="" viewBox="0 0 1280 720"><foreignObject width="1280" height="720"><section id="9" data-theme="al5x4250iwsp9pj34mr4gfrn6tjkwaqaavwdhuoc7kr" lang="en-US" style="--theme:al5x4250iwsp9pj34mr4gfrn6tjkwaqaavwdhuoc7kr;">
+</foreignObject></svg><svg data-marpit-svg="" viewBox="0 0 1280 720"><foreignObject width="1280" height="720"><section id="9" data-theme="35j7dcd4n72p2uje7g9wwaksjlox15dbfnakp6wbdmd" lang="en-US" style="--theme:35j7dcd4n72p2uje7g9wwaksjlox15dbfnakp6wbdmd;">
 <h1 id="activity-3-gallery-walk--prioritization"><strong>Activity 3: Gallery Walk &amp; Prioritization</strong></h1>
 <h2 id="%F0%9F%93%9D-organize-our-thinking-10-minutes"><img class="emoji" draggable="false" alt="📝" src="https://cdn.jsdelivr.net/gh/jdecked/twemoji@16.0.1/assets/svg/1f4dd.svg" data-marp-twemoji=""/> <strong>Organize Our Thinking</strong> (10 minutes)</h2>
 <ol>
@@ -127,7 +126,7 @@ palette in :root
 </li>
 </ol>
 </section>
-</foreignObject></svg><svg data-marpit-svg="" viewBox="0 0 1280 720"><foreignObject width="1280" height="720"><section id="10" data-theme="al5x4250iwsp9pj34mr4gfrn6tjkwaqaavwdhuoc7kr" lang="en-US" style="--theme:al5x4250iwsp9pj34mr4gfrn6tjkwaqaavwdhuoc7kr;">
+</foreignObject></svg><svg data-marpit-svg="" viewBox="0 0 1280 720"><foreignObject width="1280" height="720"><section id="10" data-theme="35j7dcd4n72p2uje7g9wwaksjlox15dbfnakp6wbdmd" lang="en-US" style="--theme:35j7dcd4n72p2uje7g9wwaksjlox15dbfnakp6wbdmd;">
 <h1 id="activity-4-refining--reality-check"><strong>Activity 4: Refining &amp; Reality Check</strong></h1>
 <h2 id="%F0%9F%8E%AF-making-it-work-15-minutes"><img class="emoji" draggable="false" alt="🎯" src="https://cdn.jsdelivr.net/gh/jdecked/twemoji@16.0.1/assets/svg/1f3af.svg" data-marp-twemoji=""/> <strong>Making It Work</strong> (15 minutes)</h2>
 <p><strong>Looking at our top-voted goals:</strong></p>
@@ -144,7 +143,7 @@ palette in :root
 <li>Suggest concrete activities that could support each goal</li>
 </ul>
 </section>
-</foreignObject></svg><svg data-marpit-svg="" viewBox="0 0 1280 720"><foreignObject width="1280" height="720"><section id="11" data-theme="al5x4250iwsp9pj34mr4gfrn6tjkwaqaavwdhuoc7kr" lang="en-US" style="--theme:al5x4250iwsp9pj34mr4gfrn6tjkwaqaavwdhuoc7kr;">
+</foreignObject></svg><svg data-marpit-svg="" viewBox="0 0 1280 720"><foreignObject width="1280" height="720"><section id="11" data-theme="35j7dcd4n72p2uje7g9wwaksjlox15dbfnakp6wbdmd" lang="en-US" style="--theme:35j7dcd4n72p2uje7g9wwaksjlox15dbfnakp6wbdmd;">
 <h1 id="course-structure-planning"><strong>Course Structure Planning</strong></h1>
 <h2 id="%F0%9F%93%85-how-should-we-organize-the-semester"><img class="emoji" draggable="false" alt="📅" src="https://cdn.jsdelivr.net/gh/jdecked/twemoji@16.0.1/assets/svg/1f4c5.svg" data-marp-twemoji=""/> <strong>How Should We Organize the Semester?</strong></h2>
 <p><strong>With our learning goals in mind:</strong></p>
@@ -155,7 +154,7 @@ palette in :root
 <li><strong>How do we reinforce</strong> key concepts throughout?</li>
 </ul>
 </section>
-</foreignObject></svg><svg data-marpit-svg="" viewBox="0 0 1280 720"><foreignObject width="1280" height="720"><section id="12" data-theme="al5x4250iwsp9pj34mr4gfrn6tjkwaqaavwdhuoc7kr" lang="en-US" style="--theme:al5x4250iwsp9pj34mr4gfrn6tjkwaqaavwdhuoc7kr;">
+</foreignObject></svg><svg data-marpit-svg="" viewBox="0 0 1280 720"><foreignObject width="1280" height="720"><section id="12" data-theme="35j7dcd4n72p2uje7g9wwaksjlox15dbfnakp6wbdmd" lang="en-US" style="--theme:35j7dcd4n72p2uje7g9wwaksjlox15dbfnakp6wbdmd;">
 <h1 id="module-design-brainstorm"><strong>Module Design Brainstorm</strong></h1>
 <h2 id="%F0%9F%A7%A9-potential-module-structure"><img class="emoji" draggable="false" alt="🧩" src="https://cdn.jsdelivr.net/gh/jdecked/twemoji@16.0.1/assets/svg/1f9e9.svg" data-marp-twemoji=""/> <strong>Potential Module Structure</strong></h2>
 <p><strong>Each 2-3 week module could include:</strong></p>
@@ -168,7 +167,7 @@ palette in :root
 </ul>
 <p><strong>What modules would serve our learning goals?</strong></p>
 </section>
-</foreignObject></svg><svg data-marpit-svg="" viewBox="0 0 1280 720"><foreignObject width="1280" height="720"><section id="13" data-theme="al5x4250iwsp9pj34mr4gfrn6tjkwaqaavwdhuoc7kr" lang="en-US" style="--theme:al5x4250iwsp9pj34mr4gfrn6tjkwaqaavwdhuoc7kr;">
+</foreignObject></svg><svg data-marpit-svg="" viewBox="0 0 1280 720"><foreignObject width="1280" height="720"><section id="13" data-theme="35j7dcd4n72p2uje7g9wwaksjlox15dbfnakp6wbdmd" lang="en-US" style="--theme:35j7dcd4n72p2uje7g9wwaksjlox15dbfnakp6wbdmd;">
 <h1 id="activity-5-module-brainstorming"><strong>Activity 5: Module Brainstorming</strong></h1>
 <h2 id="%F0%9F%93%8B-design-the-semester-20-minutes"><img class="emoji" draggable="false" alt="📋" src="https://cdn.jsdelivr.net/gh/jdecked/twemoji@16.0.1/assets/svg/1f4cb.svg" data-marp-twemoji=""/> <strong>Design the Semester</strong> (20 minutes)</h2>
 <p><strong>In small groups, each take one potential module:</strong></p>
@@ -181,7 +180,7 @@ palette in :root
 </ol>
 <p><strong>Potential modules: Social Media, Search, Recommendations, Generative AI, Healthcare AI, etc.</strong></p>
 </section>
-</foreignObject></svg><svg data-marpit-svg="" viewBox="0 0 1280 720"><foreignObject width="1280" height="720"><section id="14" data-theme="al5x4250iwsp9pj34mr4gfrn6tjkwaqaavwdhuoc7kr" lang="en-US" style="--theme:al5x4250iwsp9pj34mr4gfrn6tjkwaqaavwdhuoc7kr;">
+</foreignObject></svg><svg data-marpit-svg="" viewBox="0 0 1280 720"><foreignObject width="1280" height="720"><section id="14" data-theme="35j7dcd4n72p2uje7g9wwaksjlox15dbfnakp6wbdmd" lang="en-US" style="--theme:35j7dcd4n72p2uje7g9wwaksjlox15dbfnakp6wbdmd;">
 <h1 id="module-sharing--sequencing"><strong>Module Sharing &amp; Sequencing</strong></h1>
 <h2 id="%F0%9F%94%97-putting-it-together"><img class="emoji" draggable="false" alt="🔗" src="https://cdn.jsdelivr.net/gh/jdecked/twemoji@16.0.1/assets/svg/1f517.svg" data-marp-twemoji=""/> <strong>Putting It Together</strong></h2>
 <p><strong>Each group presents their module (3 min each):</strong></p>
@@ -198,7 +197,7 @@ palette in :root
 <li><strong>Consider the semester arc</strong></li>
 </ul>
 </section>
-</foreignObject></svg><svg data-marpit-svg="" viewBox="0 0 1280 720"><foreignObject width="1280" height="720"><section id="15" data-theme="al5x4250iwsp9pj34mr4gfrn6tjkwaqaavwdhuoc7kr" lang="en-US" style="--theme:al5x4250iwsp9pj34mr4gfrn6tjkwaqaavwdhuoc7kr;">
+</foreignObject></svg><svg data-marpit-svg="" viewBox="0 0 1280 720"><foreignObject width="1280" height="720"><section id="15" data-theme="35j7dcd4n72p2uje7g9wwaksjlox15dbfnakp6wbdmd" lang="en-US" style="--theme:35j7dcd4n72p2uje7g9wwaksjlox15dbfnakp6wbdmd;">
 <h1 id="next-steps-course-development"><strong>Next Steps: Course Development</strong></h1>
 <h2 id="%F0%9F%9A%80-what-we-accomplished-today"><img class="emoji" draggable="false" alt="🚀" src="https://cdn.jsdelivr.net/gh/jdecked/twemoji@16.0.1/assets/svg/1f680.svg" data-marp-twemoji=""/> <strong>What We Accomplished Today</strong></h2>
 <ul>
@@ -214,7 +213,7 @@ palette in :root
 <li><strong>Plan follow-up meetings</strong> for instruction and assessment</li>
 </ul>
 </section>
-</foreignObject></svg><svg data-marpit-svg="" viewBox="0 0 1280 720"><foreignObject width="1280" height="720"><section id="16" data-theme="al5x4250iwsp9pj34mr4gfrn6tjkwaqaavwdhuoc7kr" lang="en-US" style="--theme:al5x4250iwsp9pj34mr4gfrn6tjkwaqaavwdhuoc7kr;">
+</foreignObject></svg><svg data-marpit-svg="" viewBox="0 0 1280 720"><foreignObject width="1280" height="720"><section id="16" data-theme="35j7dcd4n72p2uje7g9wwaksjlox15dbfnakp6wbdmd" lang="en-US" style="--theme:35j7dcd4n72p2uje7g9wwaksjlox15dbfnakp6wbdmd;">
 <h1 id="take-action-before-next-meeting"><strong>Take Action: Before Next Meeting</strong></h1>
 <h2 id="%F0%9F%93%9D-individual-tasks"><img class="emoji" draggable="false" alt="📝" src="https://cdn.jsdelivr.net/gh/jdecked/twemoji@16.0.1/assets/svg/1f4dd.svg" data-marp-twemoji=""/> <strong>Individual Tasks</strong></h2>
 <ol>

diff --git a/content/cmse-101-learning-goals-workshop/slides.md b/content/cmse-101-learning-goals-workshop/slides.md
@@ -19,7 +19,7 @@ theme: "rose-pine-moon"
 }
 </style>
 
-![MSU Logo](https://upload.wikimedia.org/wikipedia/en/a/a7/Michigan_State_Athletics_logo.svg)
+<img src="./images/msu.png" alt="MSU Logo" width="200"/>
 
 # CMSE 101: Learning Goals Planning Workshop
 
